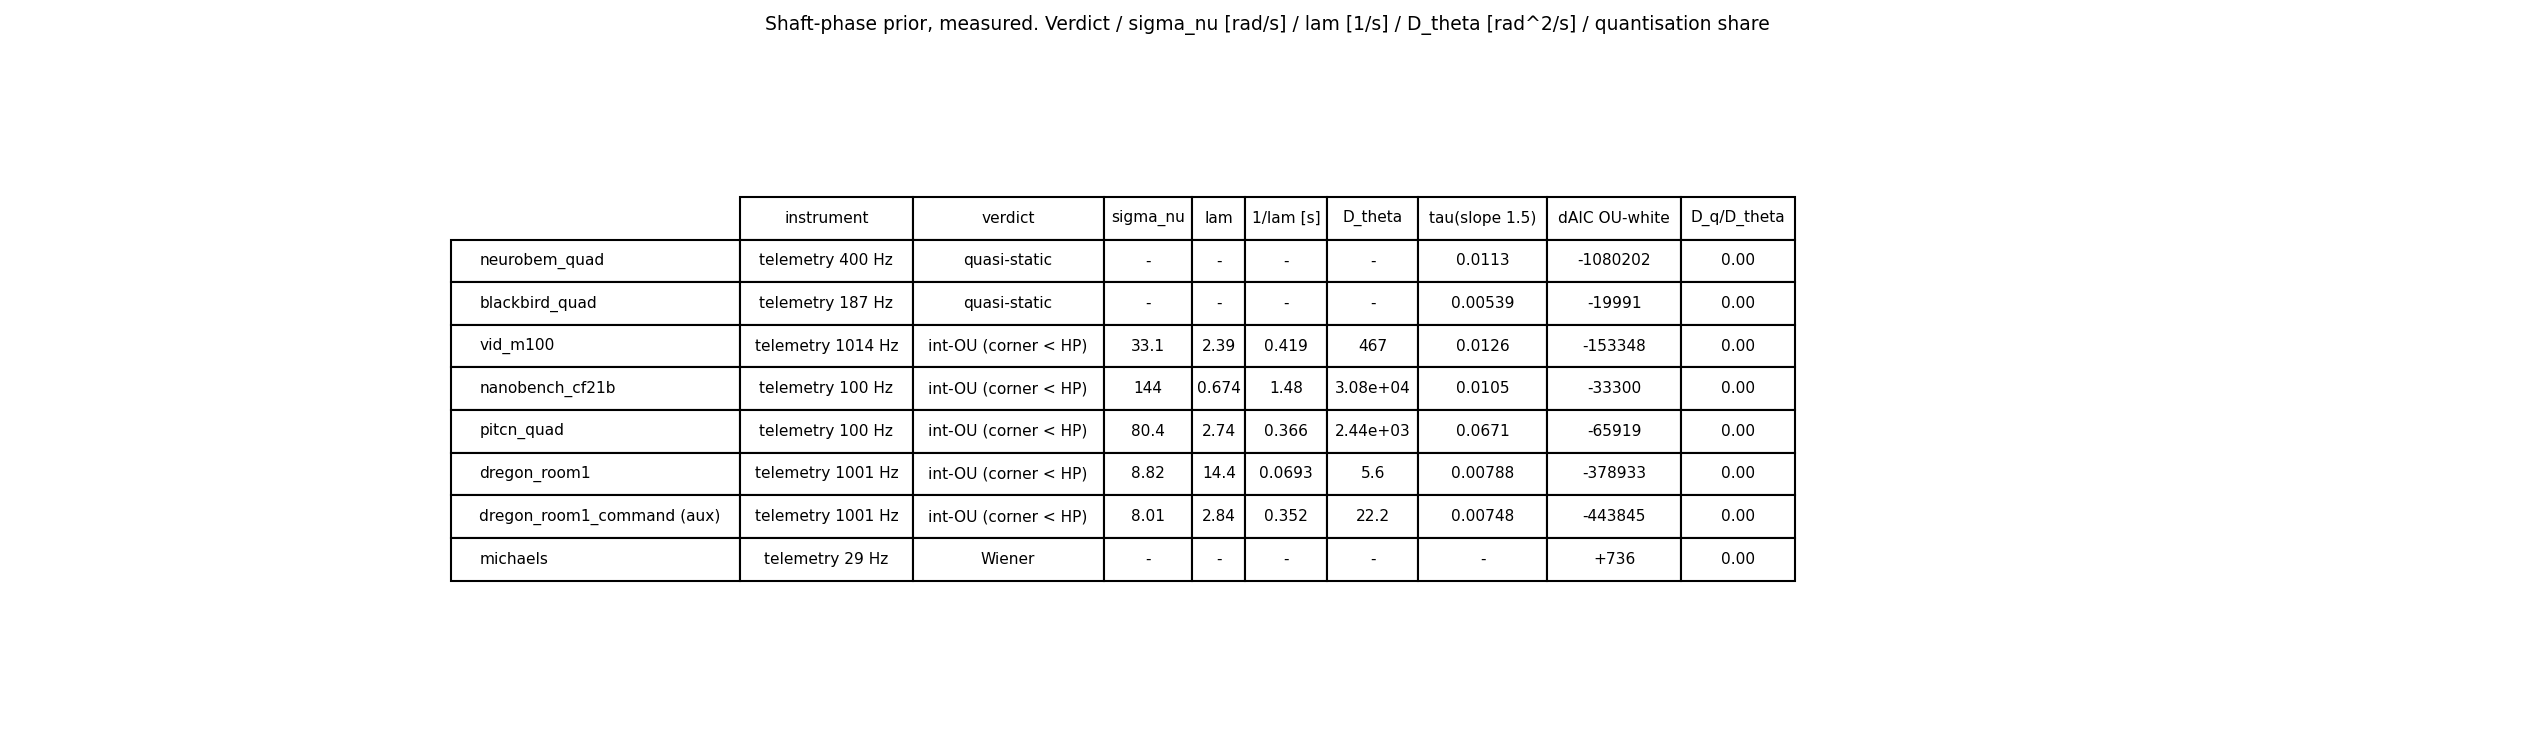
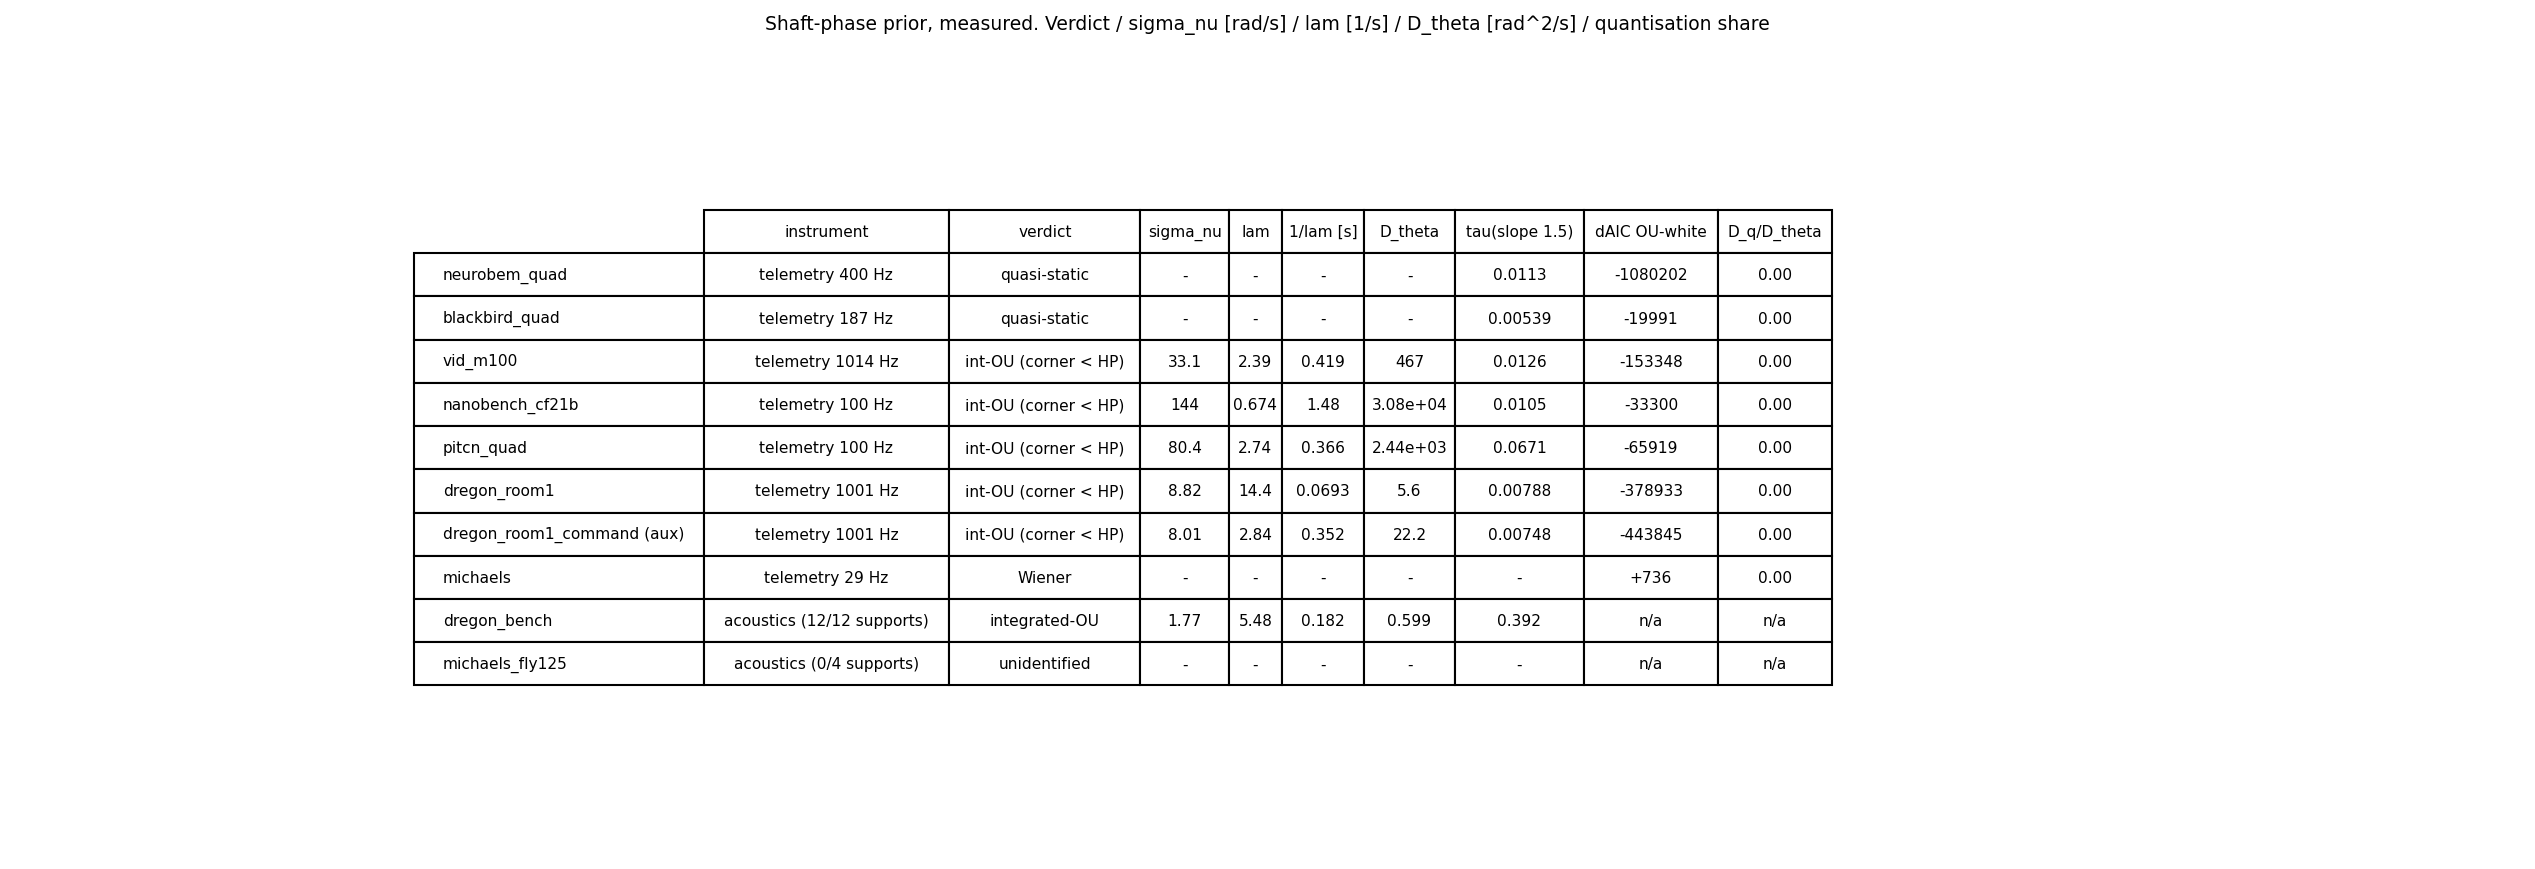
noise-v2 shaft acoustics: corrected saturation gate identifies the bench shaft term; D_k identifiability check

Changed region(s): [[0.1558, 0.2147, 0.7168, 0.7973], [0.3116, 0.0, 0.6856, 0.0613]]

diff --git a/scripts/noise_v2_shaft_phase.py b/scripts/noise_v2_shaft_phase.py
@@ -2094,6 +2094,33 @@ def acoustic_verdict(rows: list[dict[str, Any]]) -> dict[str, Any]:
         if m.sum() >= 3:
             dk_slope.append(float(np.polyfit(np.log(ks[m]), np.log(dks[m]), 1)[0]))
     lam_med = float(np.median(lam)) if lam else None
+    # Is D_k a MEASUREMENT? Only if the fitted per-order diffusion alone can
+    # reproduce the smallest measured V. 2 D_k tau at the shortest lag is
+    # compared with the measured V of that order: if the fit needs a D_k whose
+    # own contribution exceeds what was measured, D_k is soaking up model
+    # error and is not identified. The planted control says the same thing
+    # from the other side - it returns a planted D_k prop k as flat.
+    dk_ratio: list[float] = []
+    for r in ok:
+        f = r["fits"].get("ou_free_D") or {}
+        src = (
+            r.get("V_k_unwrapped_rad2")
+            if r.get("primary_estimator") == "unwrapped"
+            else r.get("V_k_rad2")
+        ) or {}
+        lags = r.get("lags_s") or []
+        if not (f.get("identified") and src and lags):
+            continue
+        for k, dk in zip(f.get("orders") or [], f.get("D_k_rad2_s") or [], strict=False):
+            ser = src.get(str(int(k))) or []
+            meas = [
+                (lags[i], v)
+                for i, v in enumerate(ser)
+                if isinstance(v, (int, float)) and np.isfinite(v) and v > 0
+            ]
+            if meas and dk > 0:
+                t0, v0 = meas[0]
+                dk_ratio.append(float(2.0 * dk * t0 / v0))
     verdict = "unidentified"
     if lam_med is not None:
         verdict = "integrated-OU" if lam_med < 200.0 else "wiener"
@@ -2110,6 +2137,14 @@ def acoustic_verdict(rows: list[dict[str, Any]]) -> dict[str, Any]:
         "D_theta_rad2_s_median": float(np.median(dth)) if dth else None,
         "D_theta_rad2_s_range": [float(np.min(dth)), float(np.max(dth))] if dth else None,
         "D_k_loglog_slope_median": float(np.median(dk_slope)) if dk_slope else None,
+        "D_k_over_measured_V_median": float(np.median(dk_ratio)) if dk_ratio else None,
+        "D_k_identified": bool(dk_ratio and float(np.median(dk_ratio)) < 1.0),
+        "D_k_note": (
+            "NOT identified: the fitted 2 D_k tau at the shortest lag exceeds the measured "
+            "V of that order, so D_k is absorbing model error"
+            if (dk_ratio and float(np.median(dk_ratio)) >= 1.0)
+            else "consistent with the measured short-lag variance"
+        ),
         "D_k_loglog_slope_range": (
             [float(np.min(dk_slope)), float(np.max(dk_slope))] if dk_slope else None
         ),
@@ -2842,10 +2877,13 @@ def write_findings(res: dict[str, Any], out_dir: Path) -> Path:
             f"(range {_f((v.get('lam_1_s_range') or [None, None])[0])} - "
             f"{_f((v.get('lam_1_s_range') or [None, None])[1])}), "
             f"`D_theta = {_f(v.get('D_theta_rad2_s_median'))} rad^2/s`. "
-            f"The per-order diffusion scales as `D_k ~ k^{_f(v.get('D_k_loglog_slope_median'), '{:.2f}')}` "
-            f"(range {_f((v.get('D_k_loglog_slope_range') or [None, None])[0], '{:.2f}')} - "
-            f"{_f((v.get('D_k_loglog_slope_range') or [None, None])[1], '{:.2f}')}). "
-            f"Model votes by AIC: {v.get('best_model_votes')}."
+            f"Model votes by AIC: {v.get('best_model_votes')}. "
+            f"The per-order diffusion `D_k` is {'IDENTIFIED' if v.get('D_k_identified') else 'NOT IDENTIFIED'}: "
+            f"the fitted `2 D_k tau` at the shortest lag is "
+            f"{_f(v.get('D_k_over_measured_V_median'), '{:.1f}')}x the measured `V` of the same "
+            f"order ({v.get('D_k_note')}), and the planted control independently returns a "
+            f"planted `D_k prop k` as flat. Read `sigma_nu`, `lam` and `D_theta` from this "
+            f"instrument; do NOT read `D_k` or its `k` exponent from it."
         )
     A("")
     A("Figures: `shaft_acoustic_Vk.png`, `shaft_Dk_vs_k.png`.")

diff --git a/results/noise_v2/shaft/findings.md b/results/noise_v2/shaft/findings.md
@@ -16,6 +16,8 @@ The model under test is `V_k(tau) = k^2 V_theta(tau) + 2 D_k tau` with `V_theta(
 | dregon_room1 | telemetry 1001 Hz | integrated-OU (corner under the 0.5 Hz high-pass; located detrend-only) | 8.82 | 14.4 | 0.0693 | 5.6 | 0.00788 | -378933 | 0.00 |
 | dregon_room1_command (aux) | telemetry 1001 Hz | integrated-OU (corner under the 0.5 Hz high-pass; located detrend-only) | 8.01 | 2.84 | 0.352 | 22.2 | 0.00748 | -443845 | 0.00 |
 | michaels | telemetry 29 Hz | wiener | - | - | - | - | - | +736 | 0.00 |
+| dregon_bench | acoustics (12/12 supports) | integrated-OU | 1.77 | 5.48 | 0.182 | 0.599 | 0.392 | n/a | n/a |
+| michaels_fly125 | acoustics (0/4 supports) | unidentified (saturated: V_theta exceeds 0.15 rad^2 at the shortest usable lag, so the harmonic is blurred rather than a line) | - | - | - | - | - | n/a | n/a |
 
 Figure: `shaft_summary_table.png`.
 
@@ -34,6 +36,8 @@ Figures: `shaft_structure_functions.png`, `shaft_speed_psd.png`.
 
 ## What the acoustics say
 
+- **dregon_bench**: 12 of 12 supports identified. Verdict **integrated-OU**: `sigma_nu = 1.77 rad/s` (range 0.23 - 3.2), `lam = 5.48 1/s` (range 0.31 - 16.2), `D_theta = 0.599 rad^2/s`. Model votes by AIC: {'ou_free_D': 12}. The per-order diffusion `D_k` is NOT IDENTIFIED: the fitted `2 D_k tau` at the shortest lag is 1.3x the measured `V` of the same order (NOT identified: the fitted 2 D_k tau at the shortest lag exceeds the measured V of that order, so D_k is absorbing model error), and the planted control independently returns a planted `D_k prop k` as flat. Read `sigma_nu`, `lam` and `D_theta` from this instrument; do NOT read `D_k` or its `k` exponent from it.
+- **michaels_fly125**: 0 of 4 supports identified. Verdict **unidentified (saturated: V_theta exceeds 0.15 rad^2 at the shortest usable lag, so the harmonic is blurred rather than a line)**: `sigma_nu = - rad/s` (range - - -), `lam = - 1/s` (range - - -), `D_theta = - rad^2/s`. Model votes by AIC: None. The per-order diffusion `D_k` is NOT IDENTIFIED: the fitted `2 D_k tau` at the shortest lag is -x the measured `V` of the same order (None), and the planted control independently returns a planted `D_k prop k` as flat. Read `sigma_nu`, `lam` and `D_theta` from this instrument; do NOT read `D_k` or its `k` exponent from it.
 
 Figures: `shaft_acoustic_Vk.png`, `shaft_Dk_vs_k.png`.
 
@@ -117,7 +121,7 @@ The identifiable quantity is the FITTED corner, because both rival models are mu
 
 | rig | C3 sigma [rad/s] | C3 D [rad^2/s] | measured D_theta (telemetry) | measured D_theta (acoustics) | sigma at lam_ref=6 (telemetry) | sigma at lam_ref=6 (acoustics) | C3 sigma / measured |
 |---|---|---|---|---|---|---|---|
-| DREGON airframe | 3.1 | 845 | 5.6 | - | 5.8 | - | tel 0.5x / ac -x |
+| DREGON airframe | 3.1 | 845 | 5.6 | 0.599 | 5.8 | 1.9 | tel 0.5x / ac 1.6x |
 | Michael's M100 | 4.21 | 1.63 | 0.0256 | - | 0.392 | - | tel 10.7x / ac -x |
 
 ## Caveats
